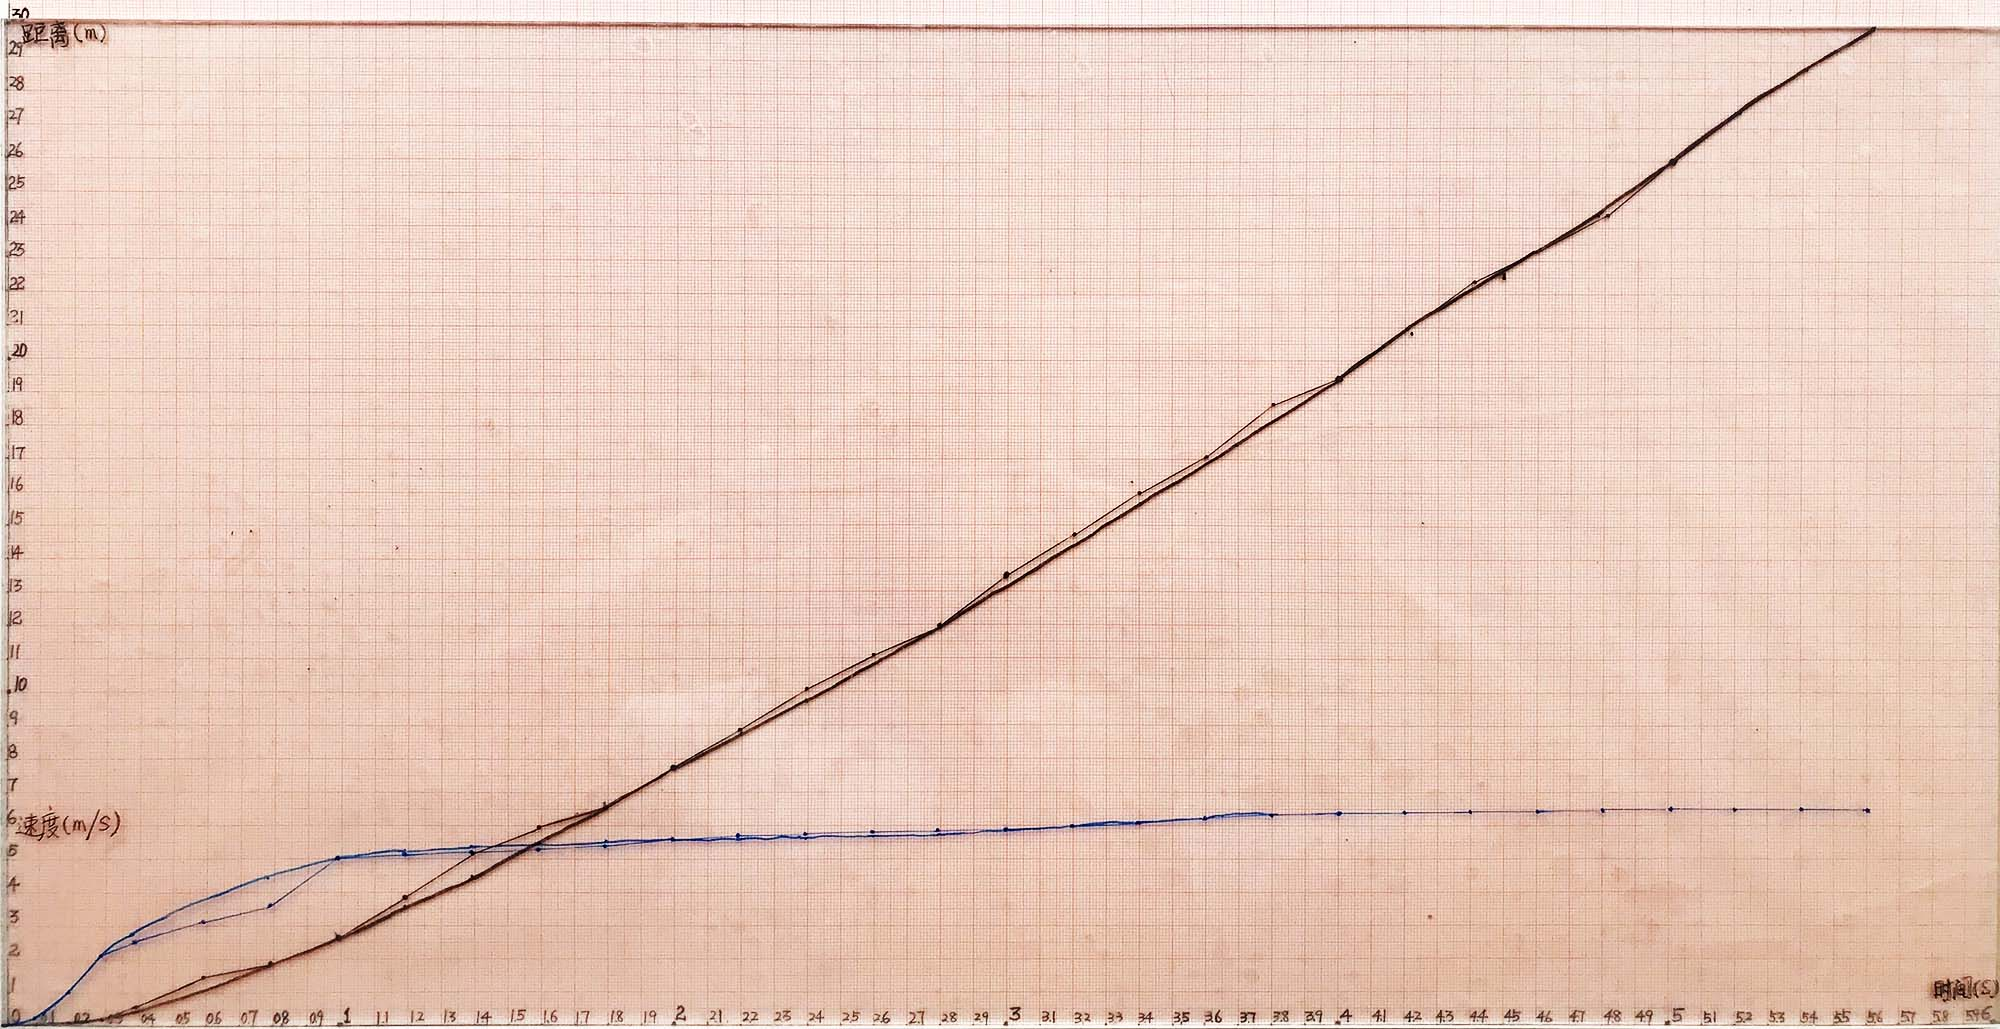
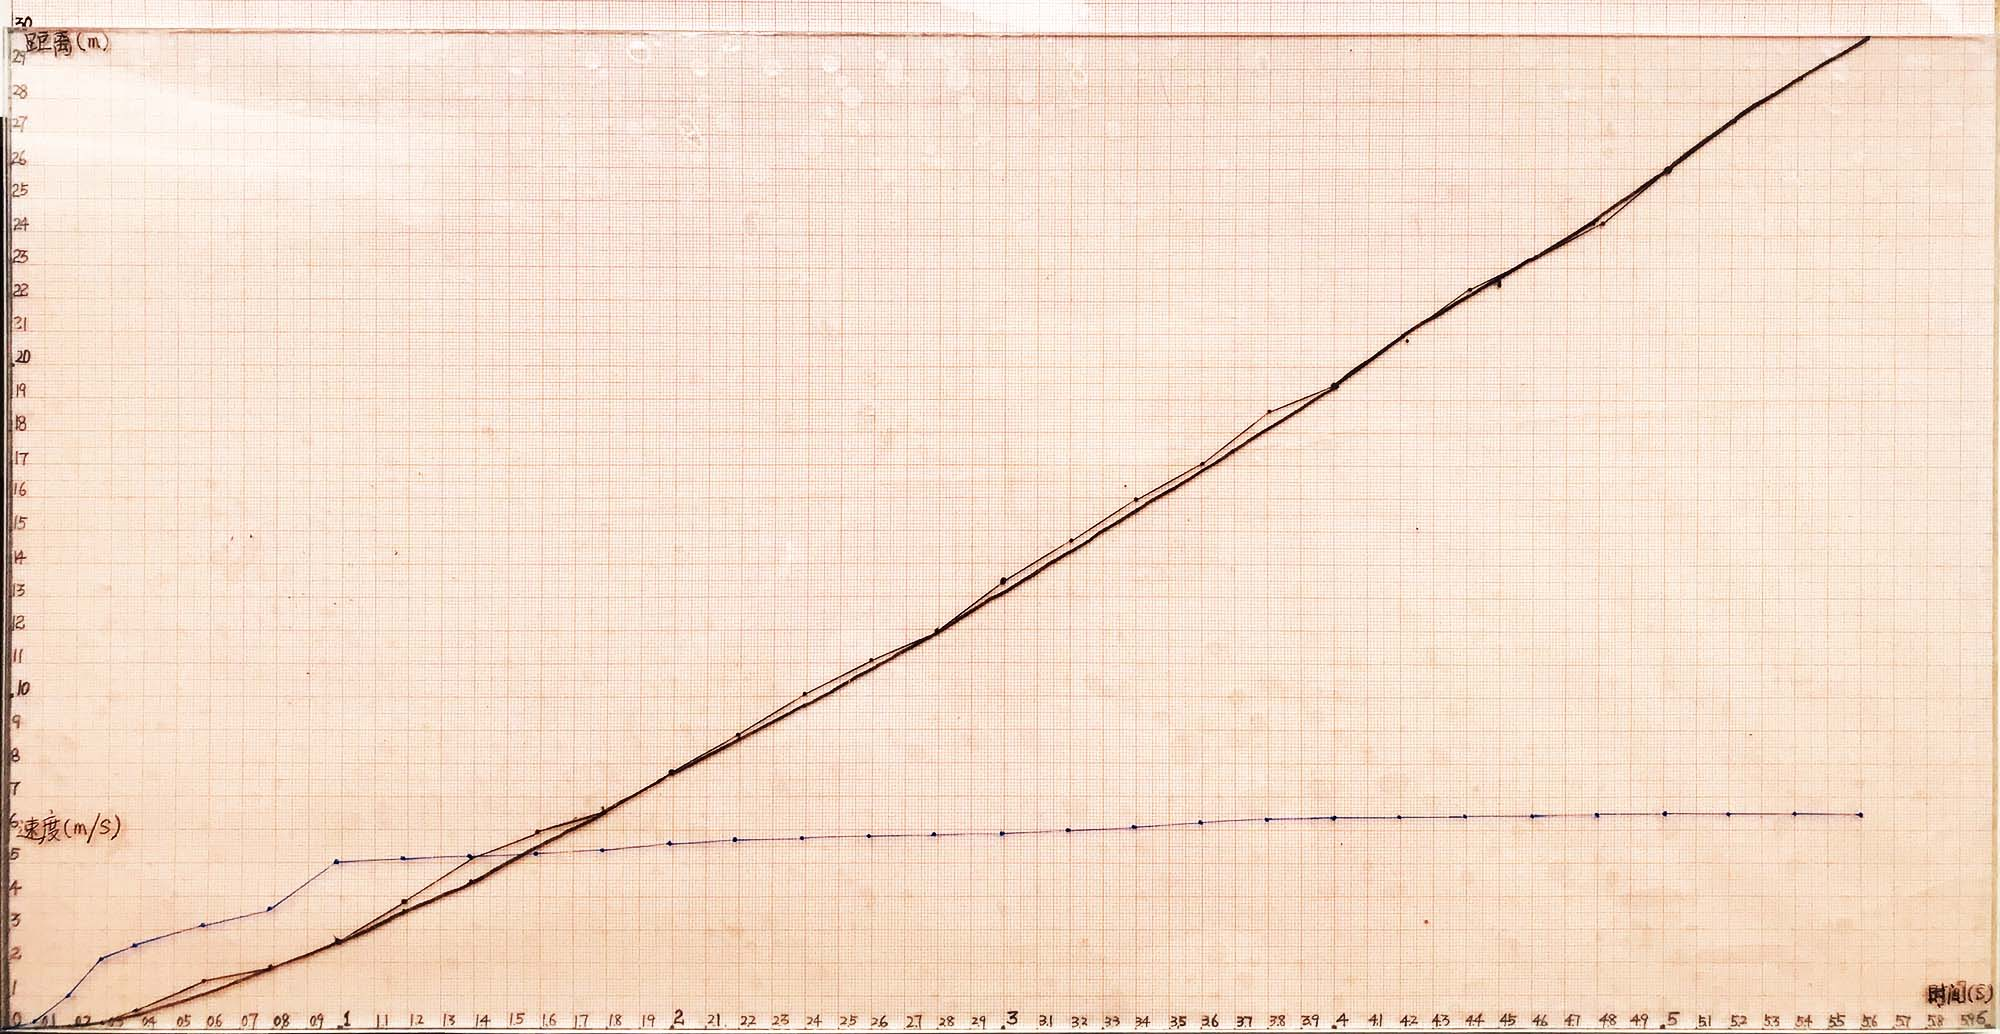
revise

diff --git a/chapters/微分/在物理和几何中的应用/短跑中质点的加速运动.md b/chapters/微分/在物理和几何中的应用/短跑中质点的加速运动.md
@@ -28,21 +28,22 @@ $$\overline{a} ≡ \frac{Δv}{Δt} = \frac{v_f-v_i}{t_f-t_i}$$
 - 1个表面可擦写的长度和宽度分别为60cm和45cm的坐标板
 - 2个表面可擦写的长度和宽度分别为60cm和45cm，高度为3mm的有机玻璃板
 - 1个直尺
+- 1个曲线尺
 - 1个平行尺
 - 1个底面的长度和宽度都是1mm，高度为50cm的长方体木头条
 - 黑色，红色和蓝色的双头水性记号笔
 
 ## 实验步骤
 
-### 1. 使用卷尺，在一个直线的距离内标注0-30米的水平横线
+### 1. 首先找到一个适合跑步的，长度大约或等于30米的室内或室外的直线场地，拉直30米卷尺，用白色粉笔绘出与30米卷尺边垂直的水平线，标记处0和30米的起点和终点位置。随后参照30米卷尺上的尺寸标记出1，2，3，...，29米的其它点的位置。
 
 ![](/images/微分/在物理和几何中的应用/短跑中质点的加速运动/1a1.jpg)
 
-### 2. 用手机的摄像头拍照0-30的短跑图像，使用蹲踞式起跑
+### 2. 使用手机的视频拍摄功能，拍摄出运动者从0米跑到30米的短跑视频（使用蹲踞式起跑）。
 
 ![](/images/微分/在物理和几何中的应用/短跑中质点的加速运动/1a2.jpg)
 
-### 3. 使用视频编辑软件（例如剪映）估算出质点在多个特定时间点的位置数据
+### 3. 使用视频编辑软件（例如剪映）分析上一步拍摄的短跑视频，估算出质点（运动者肚脐的位置）在多个特定时间点的位置数据。
 
 ![](/images/微分/在物理和几何中的应用/短跑中质点的加速运动/1a3.jpg)
 
@@ -59,6 +60,8 @@ $$\overline{a} ≡ \frac{Δv}{Δt} = \frac{v_f-v_i}{t_f-t_i}$$
 | 0.8  |  1.9  | 1.8 |  6.6  | 2.8 |   12.0 | 3.8|**18.7**| 4.8 |  24.4  | 
 | 0.9  |**2.2**| 1.9 |**7.0**| 2.9 |**12.5**| 3.9|  19.1  | 4.9 |**24.9**|
 
+- 对取得的多个数据进行简化，结果如下：
+
 |时间(s)|位置(m)|时间(s)|位置(m)|时间(s)|位置(m)|时间(s)|位置(m)|时间(s)|位置(m)|时间(s)|位置(m)|
 | :--: | :---: | :--: | :--: | :--: | :---: | :--: | :--: | :--: | :---: | :--: | :--: |
 | 0.0  |**0.0**| 1.0 |**2.7**| 2.0 | **7.8**| 3.0|**13.5**| 4.0 |**19.5**| 5.0|**26.0**|
@@ -71,16 +74,31 @@ $$\overline{a} ≡ \frac{Δv}{Δt} = \frac{v_f-v_i}{t_f-t_i}$$
 
 ### 4. 绘制位置-时间图象
 
+- 在坐标板上标记出直角坐标系的横轴和数轴的单位，横轴表示时间，10cm代表1秒（1个单位），1cm代表0.1秒（1/10个单位），竖轴表示距离，1cm代表1米（1个单位）。
+
 ![](/images/微分/在物理和几何中的应用/短跑中质点的加速运动/4a1.jpg)
+
+- 把多个特定点的位置-时间数据在直角坐标系上标记出相应的多个数据点。
+
 ![](/images/微分/在物理和几何中的应用/短跑中质点的加速运动/4a2.jpg)
+
+- 用直尺和水性笔通过相邻的两个点，绘出多条线段。
+
 ![](/images/微分/在物理和几何中的应用/短跑中质点的加速运动/4a3.jpg)
+
+- 依据上面的多条线段的趋势，用曲线尺大体拟合出一条曲线。
+
 ![](/images/微分/在物理和几何中的应用/短跑中质点的加速运动/4a4.jpg)
 
 ### 5. 大体计算出多个特定时间点的速度数据
 
+- 让长方体木头条通过特定的数据点，放置的方向大致和曲线的切线方向一致，大体计算出这个特定点的切线斜率。
+
 ![](/images/微分/在物理和几何中的应用/短跑中质点的加速运动/5a1.jpg)
+
+- 用平行尺量出多个点的切线的斜率的比值。
+
 ![](/images/微分/在物理和几何中的应用/短跑中质点的加速运动/5a2.jpg)
-![](/images/微分/在物理和几何中的应用/短跑中质点的加速运动/5a3.jpg)
 
 |  时间 |  速度  | 时间|   速度 | 时间 |   速度 | 时间|   速度  | 时间 |  速度  | 时间|   速度  |
 | :--: | :---: | :--:| :--: | :--: | :---: | :--:| :--:   | :--:| :---:  | :--:|  :--: |
@@ -95,12 +113,26 @@ $$\overline{a} ≡ \frac{Δv}{Δt} = \frac{v_f-v_i}{t_f-t_i}$$
 
 ### 6. 绘制速度-时间图象
 
+- 在坐标板上标记出直角坐标系的横轴和数轴的单位，横轴表示时间，10cm代表1秒（1个单位），1cm代表0.1秒（1/10个单位），竖轴表示速度，1cm代表1米/秒（1个单位）。把多个特定点的位置-时间数据在直角坐标系上标记出相应的多个数据点。
+
 ![](/images/微分/在物理和几何中的应用/短跑中质点的加速运动/6a1.jpg)
+
+- 用直尺和水性笔通过相邻的两个点，绘出多条线段。
+
 ![](/images/微分/在物理和几何中的应用/短跑中质点的加速运动/6a2.jpg)
+
+- 依据上面的多条线段的趋势，用曲线尺大体拟合出一条曲线。
+
+![](/images/微分/在物理和几何中的应用/短跑中质点的加速运动/6a3.jpg)
 
 ### 7. 大体计算出多个特定时间点的加速度数据
 
+- 让长方体木头条通过特定的数据点，放置的方向大致和曲线的切线方向一致，大体计算出这个特定点的切线斜率。
+
 ![](/images/微分/在物理和几何中的应用/短跑中质点的加速运动/7a1.jpg)
+
+- 用平行尺量出多个点的切线的斜率的比值。
+
 ![](/images/微分/在物理和几何中的应用/短跑中质点的加速运动/7a2.jpg)
 
 |  时间 | 加速度 | 时间|  加速度 | 时间 | 加速度 | 时间|  加速度 | 时间 | 加速度  | 时间|  加速度 |
@@ -116,8 +148,16 @@ $$\overline{a} ≡ \frac{Δv}{Δt} = \frac{v_f-v_i}{t_f-t_i}$$
 
 ### 8. 绘制加速度-时间图象
 
+- 在坐标板上标记出直角坐标系的横轴和数轴的单位，横轴表示时间，10cm代表1秒（1个单位），1cm代表0.1秒（1/10个单位），竖轴表示加速度，1cm代表1米/秒2（1个单位）。把多个特定点的位置-时间数据在直角坐标系上标记出相应的多个数据点。
+
 ![](/images/微分/在物理和几何中的应用/短跑中质点的加速运动/8a1.jpg)
+
+- 用直尺和水性笔通过相邻的两个点，绘出多条线段。
+
 ![](/images/微分/在物理和几何中的应用/短跑中质点的加速运动/8a2.jpg)
+
+- 依据上面的多条线段的趋势，用曲线尺大体拟合出一条曲线。
+
 ![](/images/微分/在物理和几何中的应用/短跑中质点的加速运动/8a3.jpg)
 
 ### 9. 在特定的时间区间内用速度-时间图像的积分趋近位置-时间图象的差值
